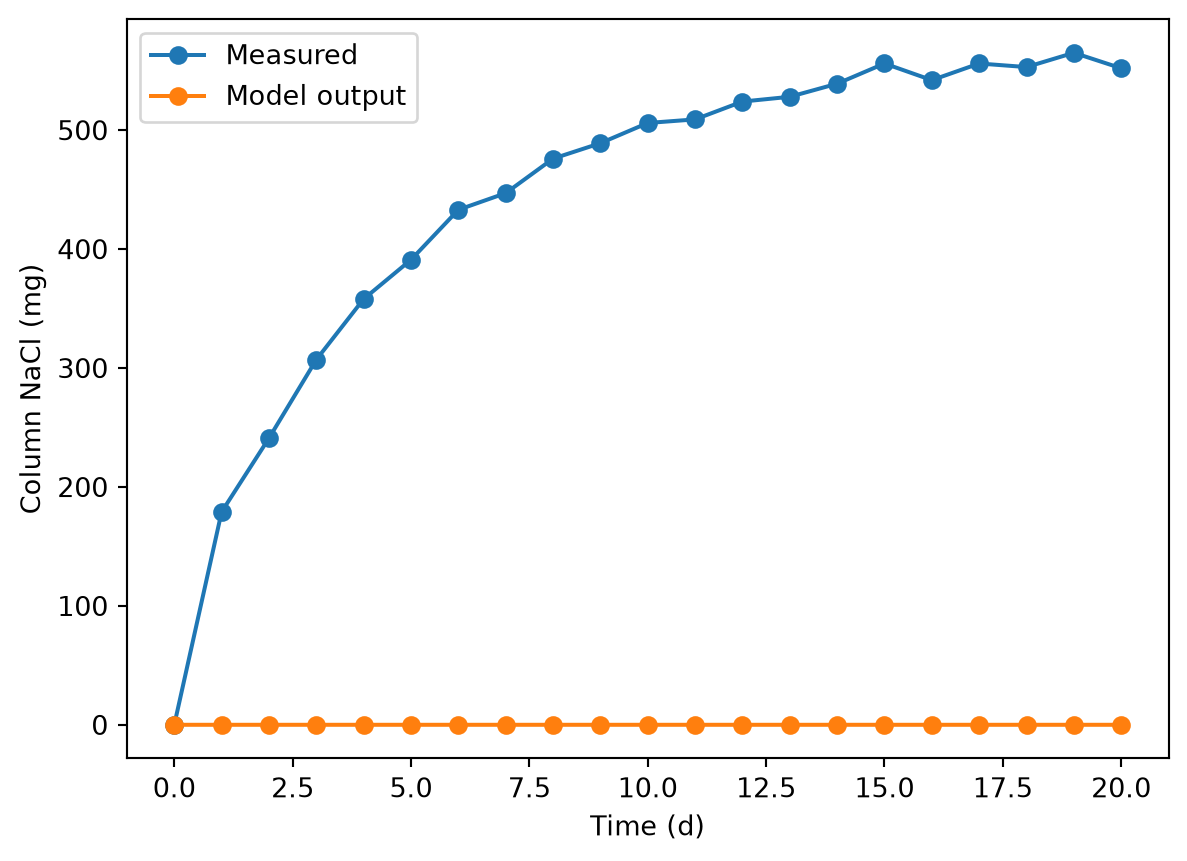
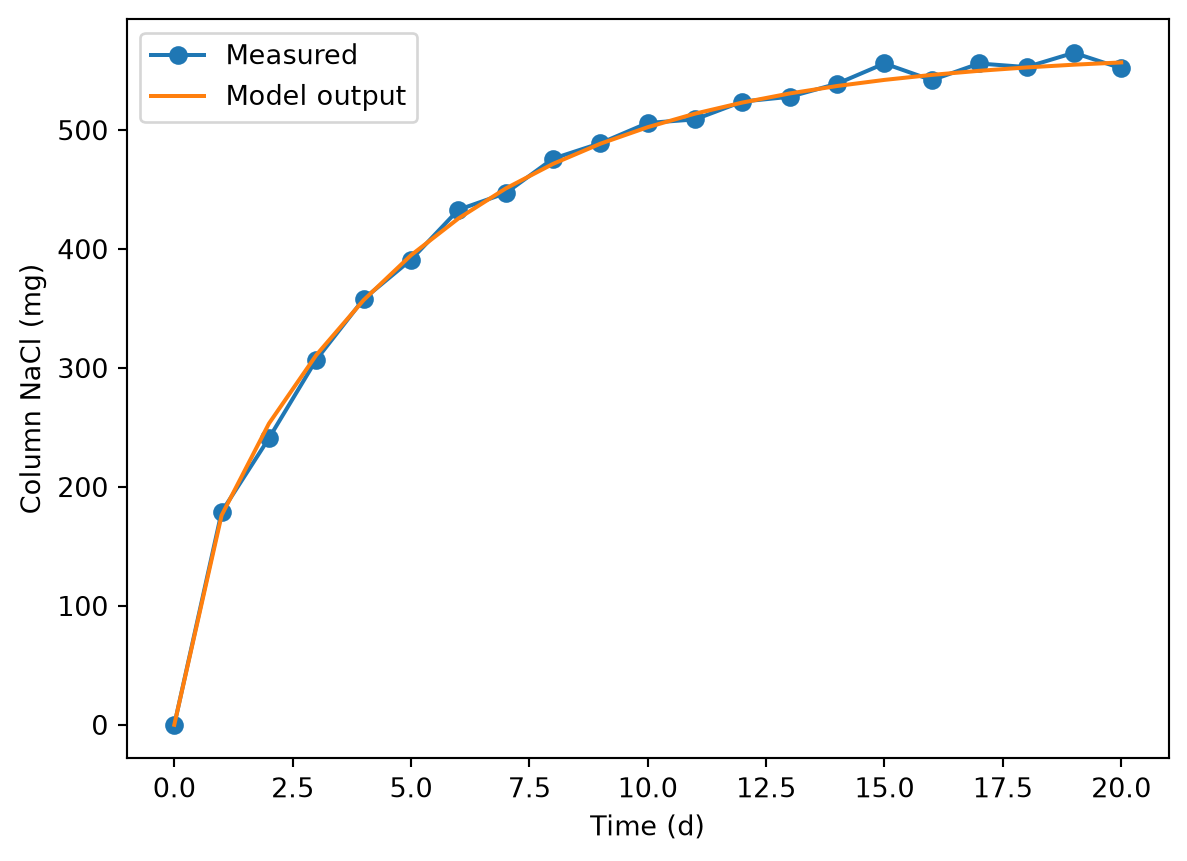
update par est sol

diff --git a/docs/classes/21-01-nov-par-est/solutions/par_est_sol.html b/docs/classes/21-01-nov-par-est/solutions/par_est_sol.html
@@ -227,11 +227,12 @@ MathJax = {
 </header>
 
 
+<p>Note: This same solution is presented as a script-based approach at <a href="https://github.com/AU-BCE-EE/course-modelling-2026/tree/main/classes/21-01-nov-par-est/script-solution" class="uri">https://github.com/AU-BCE-EE/course-modelling-2026/tree/main/classes/21-01-nov-par-est/script-solution</a>. Please check that to see how it should be set up on your local machine. This html here (not the script-bsaed approach) is done with a qmd (Quarto Markdown) file, and is useful for presenting a complete solution, but it does not demonstrate how to set up the individual files on your local machine.</p>
 <p>Let’s get the measurement data.</p>
-<div id="9b2897fc" class="cell" data-execution_count="1">
+<div id="c967e431" class="cell" data-execution_count="1">
 <div class="code-copy-outer-scaffold"><div class="sourceCode cell-code" id="cb1"><pre class="sourceCode python code-with-copy"><code class="sourceCode python"><span id="cb1-1"><a href="#cb1-1" aria-hidden="true" tabindex="-1"></a><span class="im">import</span> pandas <span class="im">as</span> pd</span></code></pre></div><button title="Copy to Clipboard" class="code-copy-button"><i class="bi"></i></button></div>
 </div>
-<div id="08eb4bf8" class="cell" data-execution_count="2">
+<div id="ba4ef15e" class="cell" data-execution_count="2">
 <div class="code-copy-outer-scaffold"><div class="sourceCode cell-code" id="cb2"><pre class="sourceCode python code-with-copy"><code class="sourceCode python"><span id="cb2-1"><a href="#cb2-1" aria-hidden="true" tabindex="-1"></a>measdat <span class="op">=</span> pd.read_csv(<span class="st">'col_salt.csv'</span>)</span>
 <span id="cb2-2"><a href="#cb2-2" aria-hidden="true" tabindex="-1"></a>measdat</span></code></pre></div><button title="Copy to Clipboard" class="code-copy-button"><i class="bi"></i></button></div>
 <div class="cell-output cell-output-display" data-execution_count="2">
@@ -360,7 +361,7 @@ MathJax = {
 </div>
 <p>Seems we have even 1 d spacing in time, which is convenient. We can match that exactly without changing the <code>diff1D()</code> function and align model output and measurements without a merge operation.</p>
 <p>We need a function for model residuals.</p>
-<div id="0e2fc428" class="cell" data-execution_count="3">
+<div id="dff14edd" class="cell" data-execution_count="3">
 <div class="code-copy-outer-scaffold"><div class="sourceCode cell-code" id="cb3"><pre class="sourceCode python code-with-copy"><code class="sourceCode python"><span id="cb3-1"><a href="#cb3-1" aria-hidden="true" tabindex="-1"></a><span class="kw">def</span> res_func(</span>
 <span id="cb3-2"><a href="#cb3-2" aria-hidden="true" tabindex="-1"></a>    x,</span>
 <span id="cb3-3"><a href="#cb3-3" aria-hidden="true" tabindex="-1"></a>    L,       </span>
@@ -373,51 +374,64 @@ MathJax = {
 <span id="cb3-10"><a href="#cb3-10" aria-hidden="true" tabindex="-1"></a>):</span>
 <span id="cb3-11"><a href="#cb3-11" aria-hidden="true" tabindex="-1"></a></span>
 <span id="cb3-12"><a href="#cb3-12" aria-hidden="true" tabindex="-1"></a>    <span class="co">"""</span></span>
-<span id="cb3-13"><a href="#cb3-13" aria-hidden="true" tabindex="-1"></a><span class="co">    Function for calculating residuals for  . . . </span></span>
-<span id="cb3-14"><a href="#cb3-14" aria-hidden="true" tabindex="-1"></a></span>
-<span id="cb3-15"><a href="#cb3-15" aria-hidden="true" tabindex="-1"></a><span class="co">    Parameters</span></span>
-<span id="cb3-16"><a href="#cb3-16" aria-hidden="true" tabindex="-1"></a><span class="co">    ----------</span></span>
-<span id="cb3-17"><a href="#cb3-17" aria-hidden="true" tabindex="-1"></a><span class="co">    x : float</span></span>
-<span id="cb3-18"><a href="#cb3-18" aria-hidden="true" tabindex="-1"></a><span class="co">        Guess for values for the D parameter (diffusivity)</span></span>
-<span id="cb3-19"><a href="#cb3-19" aria-hidden="true" tabindex="-1"></a><span class="co">    . . . </span></span>
-<span id="cb3-20"><a href="#cb3-20" aria-hidden="true" tabindex="-1"></a></span>
-<span id="cb3-21"><a href="#cb3-21" aria-hidden="true" tabindex="-1"></a></span>
-<span id="cb3-22"><a href="#cb3-22" aria-hidden="true" tabindex="-1"></a><span class="co">    Returns</span></span>
-<span id="cb3-23"><a href="#cb3-23" aria-hidden="true" tabindex="-1"></a><span class="co">    -------</span></span>
-<span id="cb3-24"><a href="#cb3-24" aria-hidden="true" tabindex="-1"></a><span class="co">    np.ndarray</span></span>
-<span id="cb3-25"><a href="#cb3-25" aria-hidden="true" tabindex="-1"></a><span class="co">        Residuals</span></span>
-<span id="cb3-26"><a href="#cb3-26" aria-hidden="true" tabindex="-1"></a><span class="co">    """</span></span>
-<span id="cb3-27"><a href="#cb3-27" aria-hidden="true" tabindex="-1"></a></span>
-<span id="cb3-28"><a href="#cb3-28" aria-hidden="true" tabindex="-1"></a>    <span class="co"># Model call</span></span>
-<span id="cb3-29"><a href="#cb3-29" aria-hidden="true" tabindex="-1"></a>    pred <span class="op">=</span> dm.diff1D(</span>
-<span id="cb3-30"><a href="#cb3-30" aria-hidden="true" tabindex="-1"></a>        L<span class="op">=</span>L,</span>
-<span id="cb3-31"><a href="#cb3-31" aria-hidden="true" tabindex="-1"></a>        n<span class="op">=</span>n,</span>
-<span id="cb3-32"><a href="#cb3-32" aria-hidden="true" tabindex="-1"></a>        D<span class="op">=</span>x,</span>
-<span id="cb3-33"><a href="#cb3-33" aria-hidden="true" tabindex="-1"></a>        bc<span class="op">=</span>bc,</span>
-<span id="cb3-34"><a href="#cb3-34" aria-hidden="true" tabindex="-1"></a>        ci<span class="op">=</span>ci,</span>
-<span id="cb3-35"><a href="#cb3-35" aria-hidden="true" tabindex="-1"></a>        t_eval<span class="op">=</span>times </span>
-<span id="cb3-36"><a href="#cb3-36" aria-hidden="true" tabindex="-1"></a>    )</span>
-<span id="cb3-37"><a href="#cb3-37" aria-hidden="true" tabindex="-1"></a></span>
-<span id="cb3-38"><a href="#cb3-38" aria-hidden="true" tabindex="-1"></a>    <span class="co"># Calculate residuals </span></span>
-<span id="cb3-39"><a href="#cb3-39" aria-hidden="true" tabindex="-1"></a>    mod_salt <span class="op">=</span> (pred[<span class="st">'c'</span>] <span class="op">*</span> pred[<span class="st">'dx'</span>] <span class="op">*</span> area).<span class="bu">sum</span>(<span class="dv">0</span>)</span>
+<span id="cb3-13"><a href="#cb3-13" aria-hidden="true" tabindex="-1"></a><span class="co">    Function for calculating residuals for estimation of the diffusivity D</span></span>
+<span id="cb3-14"><a href="#cb3-14" aria-hidden="true" tabindex="-1"></a><span class="co">    from measured total salt mass in a column, using diff1D()</span></span>
+<span id="cb3-15"><a href="#cb3-15" aria-hidden="true" tabindex="-1"></a></span>
+<span id="cb3-16"><a href="#cb3-16" aria-hidden="true" tabindex="-1"></a><span class="co">    Parameters</span></span>
+<span id="cb3-17"><a href="#cb3-17" aria-hidden="true" tabindex="-1"></a><span class="co">    ----------</span></span>
+<span id="cb3-18"><a href="#cb3-18" aria-hidden="true" tabindex="-1"></a><span class="co">    x : float or np.ndarray</span></span>
+<span id="cb3-19"><a href="#cb3-19" aria-hidden="true" tabindex="-1"></a><span class="co">        Guess for the value of the D parameter (diffusivity) (m2/s)</span></span>
+<span id="cb3-20"><a href="#cb3-20" aria-hidden="true" tabindex="-1"></a><span class="co">    L : float</span></span>
+<span id="cb3-21"><a href="#cb3-21" aria-hidden="true" tabindex="-1"></a><span class="co">        Column length (m)</span></span>
+<span id="cb3-22"><a href="#cb3-22" aria-hidden="true" tabindex="-1"></a><span class="co">    n : integer</span></span>
+<span id="cb3-23"><a href="#cb3-23" aria-hidden="true" tabindex="-1"></a><span class="co">        Number of spatial layers/cells/nodes</span></span>
+<span id="cb3-24"><a href="#cb3-24" aria-hidden="true" tabindex="-1"></a><span class="co">    bc : list or tuple</span></span>
+<span id="cb3-25"><a href="#cb3-25" aria-hidden="true" tabindex="-1"></a><span class="co">        Boundary conditions, fixed concentrations (kg/m3), bc[0] = left or bottom, bc[1] = right or top</span></span>
+<span id="cb3-26"><a href="#cb3-26" aria-hidden="true" tabindex="-1"></a><span class="co">    ci : float</span></span>
+<span id="cb3-27"><a href="#cb3-27" aria-hidden="true" tabindex="-1"></a><span class="co">        Initial concentration (kg/m3)</span></span>
+<span id="cb3-28"><a href="#cb3-28" aria-hidden="true" tabindex="-1"></a><span class="co">    times : list, tuple, or array</span></span>
+<span id="cb3-29"><a href="#cb3-29" aria-hidden="true" tabindex="-1"></a><span class="co">        Times for model evaluation (s), must match measurement times</span></span>
+<span id="cb3-30"><a href="#cb3-30" aria-hidden="true" tabindex="-1"></a><span class="co">    area : float</span></span>
+<span id="cb3-31"><a href="#cb3-31" aria-hidden="true" tabindex="-1"></a><span class="co">        Column cross-sectional area (m2)</span></span>
+<span id="cb3-32"><a href="#cb3-32" aria-hidden="true" tabindex="-1"></a><span class="co">    meas_salt : array-like</span></span>
+<span id="cb3-33"><a href="#cb3-33" aria-hidden="true" tabindex="-1"></a><span class="co">        Measured total salt mass in the column (kg) at each time in times</span></span>
+<span id="cb3-34"><a href="#cb3-34" aria-hidden="true" tabindex="-1"></a></span>
+<span id="cb3-35"><a href="#cb3-35" aria-hidden="true" tabindex="-1"></a><span class="co">    Returns</span></span>
+<span id="cb3-36"><a href="#cb3-36" aria-hidden="true" tabindex="-1"></a><span class="co">    -------</span></span>
+<span id="cb3-37"><a href="#cb3-37" aria-hidden="true" tabindex="-1"></a><span class="co">    np.ndarray</span></span>
+<span id="cb3-38"><a href="#cb3-38" aria-hidden="true" tabindex="-1"></a><span class="co">        Residuals, model minus measured salt mass (kg)</span></span>
+<span id="cb3-39"><a href="#cb3-39" aria-hidden="true" tabindex="-1"></a><span class="co">    """</span></span>
 <span id="cb3-40"><a href="#cb3-40" aria-hidden="true" tabindex="-1"></a></span>
-<span id="cb3-41"><a href="#cb3-41" aria-hidden="true" tabindex="-1"></a>    res <span class="op">=</span> mod_salt <span class="op">-</span> meas_salt</span>
-<span id="cb3-42"><a href="#cb3-42" aria-hidden="true" tabindex="-1"></a>    </span>
-<span id="cb3-43"><a href="#cb3-43" aria-hidden="true" tabindex="-1"></a>    <span class="bu">print</span>(x)</span>
-<span id="cb3-44"><a href="#cb3-44" aria-hidden="true" tabindex="-1"></a>    <span class="bu">print</span>(<span class="bu">sum</span>(res<span class="op">**</span><span class="dv">2</span>))</span>
-<span id="cb3-45"><a href="#cb3-45" aria-hidden="true" tabindex="-1"></a></span>
-<span id="cb3-46"><a href="#cb3-46" aria-hidden="true" tabindex="-1"></a>    <span class="co"># Return residuals</span></span>
-<span id="cb3-47"><a href="#cb3-47" aria-hidden="true" tabindex="-1"></a>    <span class="cf">return</span> res</span></code></pre></div><button title="Copy to Clipboard" class="code-copy-button"><i class="bi"></i></button></div>
+<span id="cb3-41"><a href="#cb3-41" aria-hidden="true" tabindex="-1"></a>    <span class="co"># Model call</span></span>
+<span id="cb3-42"><a href="#cb3-42" aria-hidden="true" tabindex="-1"></a>    pred <span class="op">=</span> dm.diff1D(</span>
+<span id="cb3-43"><a href="#cb3-43" aria-hidden="true" tabindex="-1"></a>        L<span class="op">=</span>L,</span>
+<span id="cb3-44"><a href="#cb3-44" aria-hidden="true" tabindex="-1"></a>        n<span class="op">=</span>n,</span>
+<span id="cb3-45"><a href="#cb3-45" aria-hidden="true" tabindex="-1"></a>        D<span class="op">=</span>x,</span>
+<span id="cb3-46"><a href="#cb3-46" aria-hidden="true" tabindex="-1"></a>        bc<span class="op">=</span>bc,</span>
+<span id="cb3-47"><a href="#cb3-47" aria-hidden="true" tabindex="-1"></a>        ci<span class="op">=</span>ci,</span>
+<span id="cb3-48"><a href="#cb3-48" aria-hidden="true" tabindex="-1"></a>        t_eval<span class="op">=</span>times </span>
+<span id="cb3-49"><a href="#cb3-49" aria-hidden="true" tabindex="-1"></a>    )</span>
+<span id="cb3-50"><a href="#cb3-50" aria-hidden="true" tabindex="-1"></a></span>
+<span id="cb3-51"><a href="#cb3-51" aria-hidden="true" tabindex="-1"></a>    <span class="co"># Calculate residuals </span></span>
+<span id="cb3-52"><a href="#cb3-52" aria-hidden="true" tabindex="-1"></a>    mod_salt <span class="op">=</span> (pred[<span class="st">'c'</span>] <span class="op">*</span> pred[<span class="st">'dx'</span>] <span class="op">*</span> area).<span class="bu">sum</span>(<span class="dv">0</span>)</span>
+<span id="cb3-53"><a href="#cb3-53" aria-hidden="true" tabindex="-1"></a></span>
+<span id="cb3-54"><a href="#cb3-54" aria-hidden="true" tabindex="-1"></a>    res <span class="op">=</span> mod_salt <span class="op">-</span> meas_salt</span>
+<span id="cb3-55"><a href="#cb3-55" aria-hidden="true" tabindex="-1"></a>    </span>
+<span id="cb3-56"><a href="#cb3-56" aria-hidden="true" tabindex="-1"></a>    <span class="bu">print</span>(x)</span>
+<span id="cb3-57"><a href="#cb3-57" aria-hidden="true" tabindex="-1"></a>    <span class="bu">print</span>(<span class="bu">sum</span>(res<span class="op">**</span><span class="dv">2</span>))</span>
+<span id="cb3-58"><a href="#cb3-58" aria-hidden="true" tabindex="-1"></a></span>
+<span id="cb3-59"><a href="#cb3-59" aria-hidden="true" tabindex="-1"></a>    <span class="co"># Return residuals</span></span>
+<span id="cb3-60"><a href="#cb3-60" aria-hidden="true" tabindex="-1"></a>    <span class="cf">return</span> res</span></code></pre></div><button title="Copy to Clipboard" class="code-copy-button"><i class="bi"></i></button></div>
 </div>
 <p>Now use it. Load our model function.</p>
-<div id="37817674" class="cell" data-execution_count="4">
+<div id="2312e766" class="cell" data-execution_count="4">
 <div class="code-copy-outer-scaffold"><div class="sourceCode cell-code" id="cb4"><pre class="sourceCode python code-with-copy"><code class="sourceCode python"><span id="cb4-1"><a href="#cb4-1" aria-hidden="true" tabindex="-1"></a><span class="im">import</span> diff_mod <span class="im">as</span> dm</span></code></pre></div><button title="Copy to Clipboard" class="code-copy-button"><i class="bi"></i></button></div>
 </div>
 <p>And other modules.</p>
-<div id="593a3ef8" class="cell" data-execution_count="5">
+<div id="2adb842c" class="cell" data-execution_count="5">
 <div class="code-copy-outer-scaffold"><div class="sourceCode cell-code" id="cb5"><pre class="sourceCode python code-with-copy"><code class="sourceCode python"><span id="cb5-1"><a href="#cb5-1" aria-hidden="true" tabindex="-1"></a><span class="im">import</span> numpy <span class="im">as</span> np</span></code></pre></div><button title="Copy to Clipboard" class="code-copy-button"><i class="bi"></i></button></div>
 </div>
-<div id="c7799014" class="cell" data-execution_count="6">
+<div id="c893f4c5" class="cell" data-execution_count="6">
 <div class="code-copy-outer-scaffold"><div class="sourceCode cell-code" id="cb6"><pre class="sourceCode python code-with-copy"><code class="sourceCode python"><span id="cb6-1"><a href="#cb6-1" aria-hidden="true" tabindex="-1"></a><span class="co"># We need to get least_squares() from the scipy.optimize module</span></span>
 <span id="cb6-2"><a href="#cb6-2" aria-hidden="true" tabindex="-1"></a><span class="co"># Normal approach is to get only that function when we just need one </span></span>
 <span id="cb6-3"><a href="#cb6-3" aria-hidden="true" tabindex="-1"></a><span class="im">from</span> scipy.optimize <span class="im">import</span> least_squares</span>
@@ -494,15 +508,15 @@ MathJax = {
 <pre><code>np.float64(2.3558272173105295e-09)</code></pre>
 </div>
 </div>
-<p>Now see how the value does–validation.</p>
-<div id="5484f4ce" class="cell" data-execution_count="7">
+<p>Now see how the value does–validation. We will use the same times as in the measurements, so we can do some quantitative validation as well as graphical. Normally for graphical we would use more times for a smooth model curve.</p>
+<div id="3cbacd54" class="cell" data-execution_count="7">
 <div class="code-copy-outer-scaffold"><div class="sourceCode cell-code" id="cb9"><pre class="sourceCode python code-with-copy"><code class="sourceCode python"><span id="cb9-1"><a href="#cb9-1" aria-hidden="true" tabindex="-1"></a>area <span class="op">=</span> np.pi <span class="op">*</span> (<span class="fl">0.02</span> <span class="op">/</span> <span class="dv">2</span>)<span class="op">**</span><span class="dv">2</span> </span>
 <span id="cb9-2"><a href="#cb9-2" aria-hidden="true" tabindex="-1"></a>area</span></code></pre></div><button title="Copy to Clipboard" class="code-copy-button"><i class="bi"></i></button></div>
 <div class="cell-output cell-output-display" data-execution_count="7">
 <pre><code>0.0003141592653589793</code></pre>
 </div>
 </div>
-<div id="5ad4cbfb" class="cell" data-execution_count="8">
+<div id="1ed33037" class="cell" data-execution_count="8">
 <div class="code-copy-outer-scaffold"><div class="sourceCode cell-code" id="cb11"><pre class="sourceCode python code-with-copy"><code class="sourceCode python"><span id="cb11-1"><a href="#cb11-1" aria-hidden="true" tabindex="-1"></a>pred01 <span class="op">=</span> dm.diff1D(</span>
 <span id="cb11-2"><a href="#cb11-2" aria-hidden="true" tabindex="-1"></a>    L <span class="op">=</span> <span class="fl">0.1</span>,</span>
 <span id="cb11-3"><a href="#cb11-3" aria-hidden="true" tabindex="-1"></a>    n <span class="op">=</span> <span class="dv">10</span>,</span>
@@ -512,14 +526,14 @@ MathJax = {
 <span id="cb11-7"><a href="#cb11-7" aria-hidden="true" tabindex="-1"></a>    t_eval <span class="op">=</span> np.linspace(<span class="dv">0</span>, <span class="dv">20</span> <span class="op">*</span> <span class="dv">86400</span>, <span class="dv">21</span>)</span>
 <span id="cb11-8"><a href="#cb11-8" aria-hidden="true" tabindex="-1"></a>)</span></code></pre></div><button title="Copy to Clipboard" class="code-copy-button"><i class="bi"></i></button></div>
 </div>
-<div id="ac1f7196" class="cell" data-execution_count="9">
+<div id="81692b5e" class="cell" data-execution_count="9">
 <div class="code-copy-outer-scaffold"><div class="sourceCode cell-code" id="cb12"><pre class="sourceCode python code-with-copy"><code class="sourceCode python"><span id="cb12-1"><a href="#cb12-1" aria-hidden="true" tabindex="-1"></a>area <span class="op">=</span> np.pi <span class="op">*</span> (<span class="fl">0.02</span> <span class="op">/</span> <span class="dv">2</span>)<span class="op">**</span><span class="dv">2</span> </span>
 <span id="cb12-2"><a href="#cb12-2" aria-hidden="true" tabindex="-1"></a>area</span></code></pre></div><button title="Copy to Clipboard" class="code-copy-button"><i class="bi"></i></button></div>
 <div class="cell-output cell-output-display" data-execution_count="9">
 <pre><code>0.0003141592653589793</code></pre>
 </div>
 </div>
-<div id="c189923d" class="cell" data-execution_count="10">
+<div id="0591d91b" class="cell" data-execution_count="10">
 <div class="code-copy-outer-scaffold"><div class="sourceCode cell-code" id="cb14"><pre class="sourceCode python code-with-copy"><code class="sourceCode python"><span id="cb14-1"><a href="#cb14-1" aria-hidden="true" tabindex="-1"></a>salt_mod <span class="op">=</span> (pred01[<span class="st">'c'</span>] <span class="op">*</span> pred01[<span class="st">'dx'</span>] <span class="op">*</span> area).<span class="bu">sum</span>(<span class="dv">0</span>)</span>
 <span id="cb14-2"><a href="#cb14-2" aria-hidden="true" tabindex="-1"></a>salt_mod</span></code></pre></div><button title="Copy to Clipboard" class="code-copy-button"><i class="bi"></i></button></div>
 <div class="cell-output cell-output-display" data-execution_count="10">
@@ -530,11 +544,11 @@ MathJax = {
        0.00055689])</code></pre>
 </div>
 </div>
-<div id="6d3f347d" class="cell" data-execution_count="11">
+<div id="da965ac5" class="cell" data-execution_count="11">
 <div class="code-copy-outer-scaffold"><div class="sourceCode cell-code" id="cb16"><pre class="sourceCode python code-with-copy"><code class="sourceCode python"><span id="cb16-1"><a href="#cb16-1" aria-hidden="true" tabindex="-1"></a>mmdat <span class="op">=</span> measdat.copy()</span></code></pre></div><button title="Copy to Clipboard" class="code-copy-button"><i class="bi"></i></button></div>
 </div>
-<p>And add the model output we processed above.</p>
-<div id="ea595c7e" class="cell" data-execution_count="12">
+<p>And add the model output we processed above. We are trusting that the time alignment is OK.</p>
+<div id="dafbf4b2" class="cell" data-execution_count="12">
 <div class="code-copy-outer-scaffold"><div class="sourceCode cell-code" id="cb17"><pre class="sourceCode python code-with-copy"><code class="sourceCode python"><span id="cb17-1"><a href="#cb17-1" aria-hidden="true" tabindex="-1"></a>mmdat[<span class="st">'salt_mod_mg'</span>] <span class="op">=</span> salt_mod <span class="op">*</span> <span class="fl">1E6</span></span>
 <span id="cb17-2"><a href="#cb17-2" aria-hidden="true" tabindex="-1"></a>mmdat</span></code></pre></div><button title="Copy to Clipboard" class="code-copy-button"><i class="bi"></i></button></div>
 <div class="cell-output cell-output-display" data-execution_count="12">
@@ -683,10 +697,10 @@ MathJax = {
 </div>
 </div>
 </div>
-<div id="5826829b" class="cell" data-execution_count="13">
+<div id="13900158" class="cell" data-execution_count="13">
 <div class="code-copy-outer-scaffold"><div class="sourceCode cell-code" id="cb18"><pre class="sourceCode python code-with-copy"><code class="sourceCode python"><span id="cb18-1"><a href="#cb18-1" aria-hidden="true" tabindex="-1"></a><span class="im">import</span> matplotlib.pyplot <span class="im">as</span> plt</span>
 <span id="cb18-2"><a href="#cb18-2" aria-hidden="true" tabindex="-1"></a>plt.plot(mmdat.time_d, mmdat.salt_mg, marker <span class="op">=</span> <span class="st">'o'</span>, label <span class="op">=</span> <span class="st">'Measured'</span>)</span>
-<span id="cb18-3"><a href="#cb18-3" aria-hidden="true" tabindex="-1"></a>plt.plot(mmdat.time_d, salt_mod, marker <span class="op">=</span> <span class="st">'o'</span>, label <span class="op">=</span> <span class="st">'Model output'</span>)</span>
+<span id="cb18-3"><a href="#cb18-3" aria-hidden="true" tabindex="-1"></a>plt.plot(mmdat.time_d, mmdat.salt_mod_mg, label <span class="op">=</span> <span class="st">'Model output'</span>)</span>
 <span id="cb18-4"><a href="#cb18-4" aria-hidden="true" tabindex="-1"></a>plt.xlabel(<span class="st">'Time (d)'</span>)</span>
 <span id="cb18-5"><a href="#cb18-5" aria-hidden="true" tabindex="-1"></a>plt.ylabel(<span class="st">'Column NaCl (mg)'</span>)</span>
 <span id="cb18-6"><a href="#cb18-6" aria-hidden="true" tabindex="-1"></a>plt.legend()</span></code></pre></div><button title="Copy to Clipboard" class="code-copy-button"><i class="bi"></i></button></div>
@@ -698,13 +712,32 @@ MathJax = {
 </div>
 </div>
 </div>
-<p>Troubleshooting:</p>
+<p>And for quantitative validation, let’s load the fit statistic functions.</p>
+<div id="641cd831" class="cell" data-execution_count="14">
+<div class="code-copy-outer-scaffold"><div class="sourceCode cell-code" id="cb19"><pre class="sourceCode python code-with-copy"><code class="sourceCode python"><span id="cb19-1"><a href="#cb19-1" aria-hidden="true" tabindex="-1"></a><span class="im">import</span> mod_fit <span class="im">as</span> mf</span></code></pre></div><button title="Copy to Clipboard" class="code-copy-button"><i class="bi"></i></button></div>
+</div>
+<p>If you just use one, probably RMSE is the best choice, but it is only better than MAE because it is more popular.</p>
+<div id="69bec158" class="cell" data-execution_count="15">
+<div class="code-copy-outer-scaffold"><div class="sourceCode cell-code" id="cb20"><pre class="sourceCode python code-with-copy"><code class="sourceCode python"><span id="cb20-1"><a href="#cb20-1" aria-hidden="true" tabindex="-1"></a>mf.rmse(mmdat.salt_mg, mmdat.salt_mod_mg)</span></code></pre></div><button title="Copy to Clipboard" class="code-copy-button"><i class="bi"></i></button></div>
+<div class="cell-output cell-output-display" data-execution_count="15">
+<pre><code>np.float64(5.768775563859749)</code></pre>
+</div>
+</div>
+<p>We cannot always have low error (RMSE, MAE, or high model efficiency (<code>nsme()</code>)), but we <em>should</em> always have low bias after parameter estimation.</p>
+<div id="d40b43e7" class="cell" data-execution_count="16">
+<div class="code-copy-outer-scaffold"><div class="sourceCode cell-code" id="cb22"><pre class="sourceCode python code-with-copy"><code class="sourceCode python"><span id="cb22-1"><a href="#cb22-1" aria-hidden="true" tabindex="-1"></a>mf.mbe(mmdat.salt_mg, mmdat.salt_mod_mg)</span></code></pre></div><button title="Copy to Clipboard" class="code-copy-button"><i class="bi"></i></button></div>
+<div class="cell-output cell-output-display" data-execution_count="16">
+<pre><code>np.float64(-0.5448203308686161)</code></pre>
+</div>
+</div>
+<p>We do.</p>
+<p>Troubleshooting: If you had trouble, these tips might help.</p>
 <ul>
 <li>Check units, must match</li>
 <li>Use breakpoint() to check model call inside residuals function</li>
 <li>print(x) or <code>sum(res**2)</code> etc.</li>
 </ul>
-<p>Things to try:</p>
+<p>Other things to try:</p>
 <ul>
 <li>How much does n cells affect result?</li>
 <li>Did you try different starting values to check for global vs.&nbsp;local minima?</li>

diff --git a/docs/index.html b/docs/index.html
@@ -186,7 +186,7 @@ MathJax = {
 
 
 <p><em>Modelling 2026</em> class schedule. Links appear below as material is released – slides and exercises are generally posted before class, solutions after. The reading or watching in the “Preparation” column should be completed before class. The textbook is <a href="https://au-bce-ee.github.io/modeling-py-book/">here</a>.</p>
-<div id="3c7b4fdb" class="cell" data-execution_count="1">
+<div id="3ade1a2f" class="cell" data-execution_count="1">
 <div class="cell-output cell-output-display">
 <table class="table table-striped caption-top table-sm small">
 <thead>
